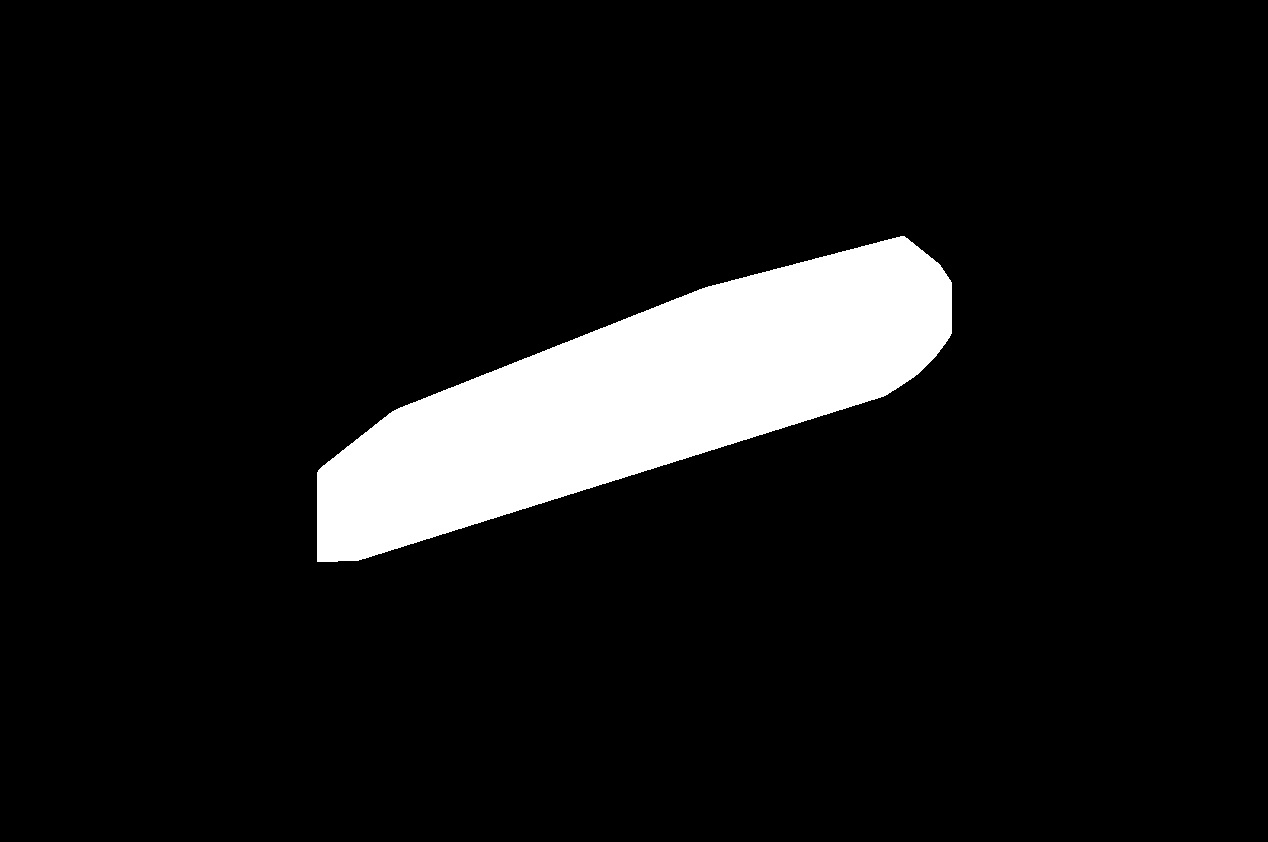
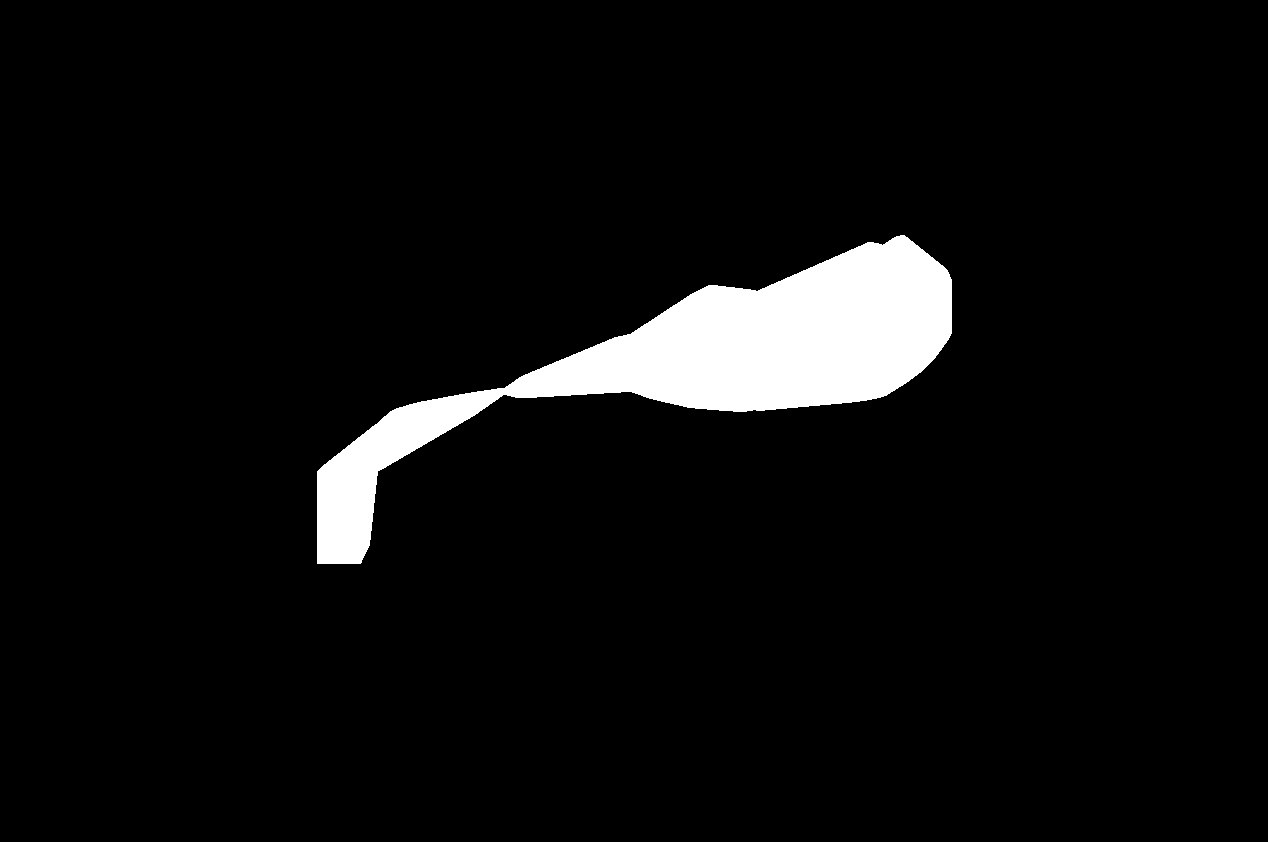
score: 76.85

Changed region(s): [[0.2768, 0.3705, 0.6767, 0.6793], [0.5536, 0.3088, 0.6459, 0.3397], [0.5229, 0.3397, 0.5536, 0.3705]]

diff --git a/imageReader.py b/imageReader.py
@@ -9,9 +9,7 @@ def binary(image, threshold_l=5):
     th_y = image.shape[1]//4
     mean = np.mean(image[th_x:3*th_x, th_y:3*th_y])
     std = np.std(image[th_x:3*th_x, th_y:3*th_y])
-    threshold_r = mean-0.85*std
-    # threshold_r = 67
-    # print(mean-0.85*std)
+    threshold_r = mean-0.78*std
     for i in range(image.shape[0]):
         for j in range(image.shape[1]):
             if i < th_x or i > 3*th_x or j < th_y or j > 3*th_y:
@@ -31,7 +29,7 @@ for i in range(10):
     img1 = cv2.medianBlur(img1, 7)
     img2 = binary(img1).astype(np.uint8)
     img2 = cv2.bitwise_not(img2)
-    # kernel = np.ones((5, 5), np.int8)
+    kernel = np.ones((5, 5), np.int8)
     # img2 = cv2.morphologyEx(img2, cv2.MORPH_CLOSE, kernel)
     # img2 = cv2.morphologyEx(img2, cv2.MORPH_OPEN, kernel)
     nb_components, output, stats, centroids = cv2.connectedComponentsWithStats(cv2.bitwise_not(img2), connectivity=8)
@@ -44,16 +42,23 @@ for i in range(10):
         temp[output == sizes[j]+1] = 255
         temp = temp.reshape(img2.shape).astype(np.uint8)
         if max(temp[:, (img2.shape[1]//2)]) == 255:
-            im2, contours, hierarchy = cv2.findContours(temp, cv2.RETR_TREE, cv2.CHAIN_APPROX_SIMPLE)
-            hull = [cv2.convexHull(contours[0], False)]
             drawing = np.zeros(img2.shape, np.int8)
-            temp1 = cv2.fillConvexPoly(drawing, hull[0], (255, 255, 255))
+            parts = 10
+            half_col = img2.shape[1]//parts
+            for h in range(parts):
+                im2, contours, hierarchy = cv2.findContours(temp[:, h*half_col:(h+1)*half_col], cv2.RETR_TREE, cv2.CHAIN_APPROX_SIMPLE)
+                if len(contours) != 0:
+                    for hu in range(len(contours)):
+                        hull = [cv2.convexHull(contours[hu], False, clockwise=False)]
+                        drawing[:, h*half_col:(h+1)*half_col] = cv2.fillConvexPoly(drawing[:, h*half_col:(h+1)*half_col], hull[0], (255, 255, 255))
             temp2 = np.zeros(img2.shape, np.uint8)
-            for row in range(temp1.shape[0]):
-                for col in range(temp1.shape[1]):
-                    if row < img2.shape[0]//4 or row > 3*img2.shape[0]//4 or col < img2.shape[1]//4 or col > 3*img2.shape[1]//4 or temp1[row][col] < 50:
+            for row in range(drawing.shape[0]):
+                for col in range(drawing.shape[1]):
+                    if row < img2.shape[0]//4 or row > 3*img2.shape[0]//4 or col < img2.shape[1]//4 or col > 3*img2.shape[1]//4 or drawing[row][col] < 50:
                         pass
                     else:
                         temp2[row][col] = 255
+            plt.imshow(temp2, cmap='gray')
+            plt.show()
             cv2.imwrite("results/masked_000{}.jpg".format(i), temp2)
             break
